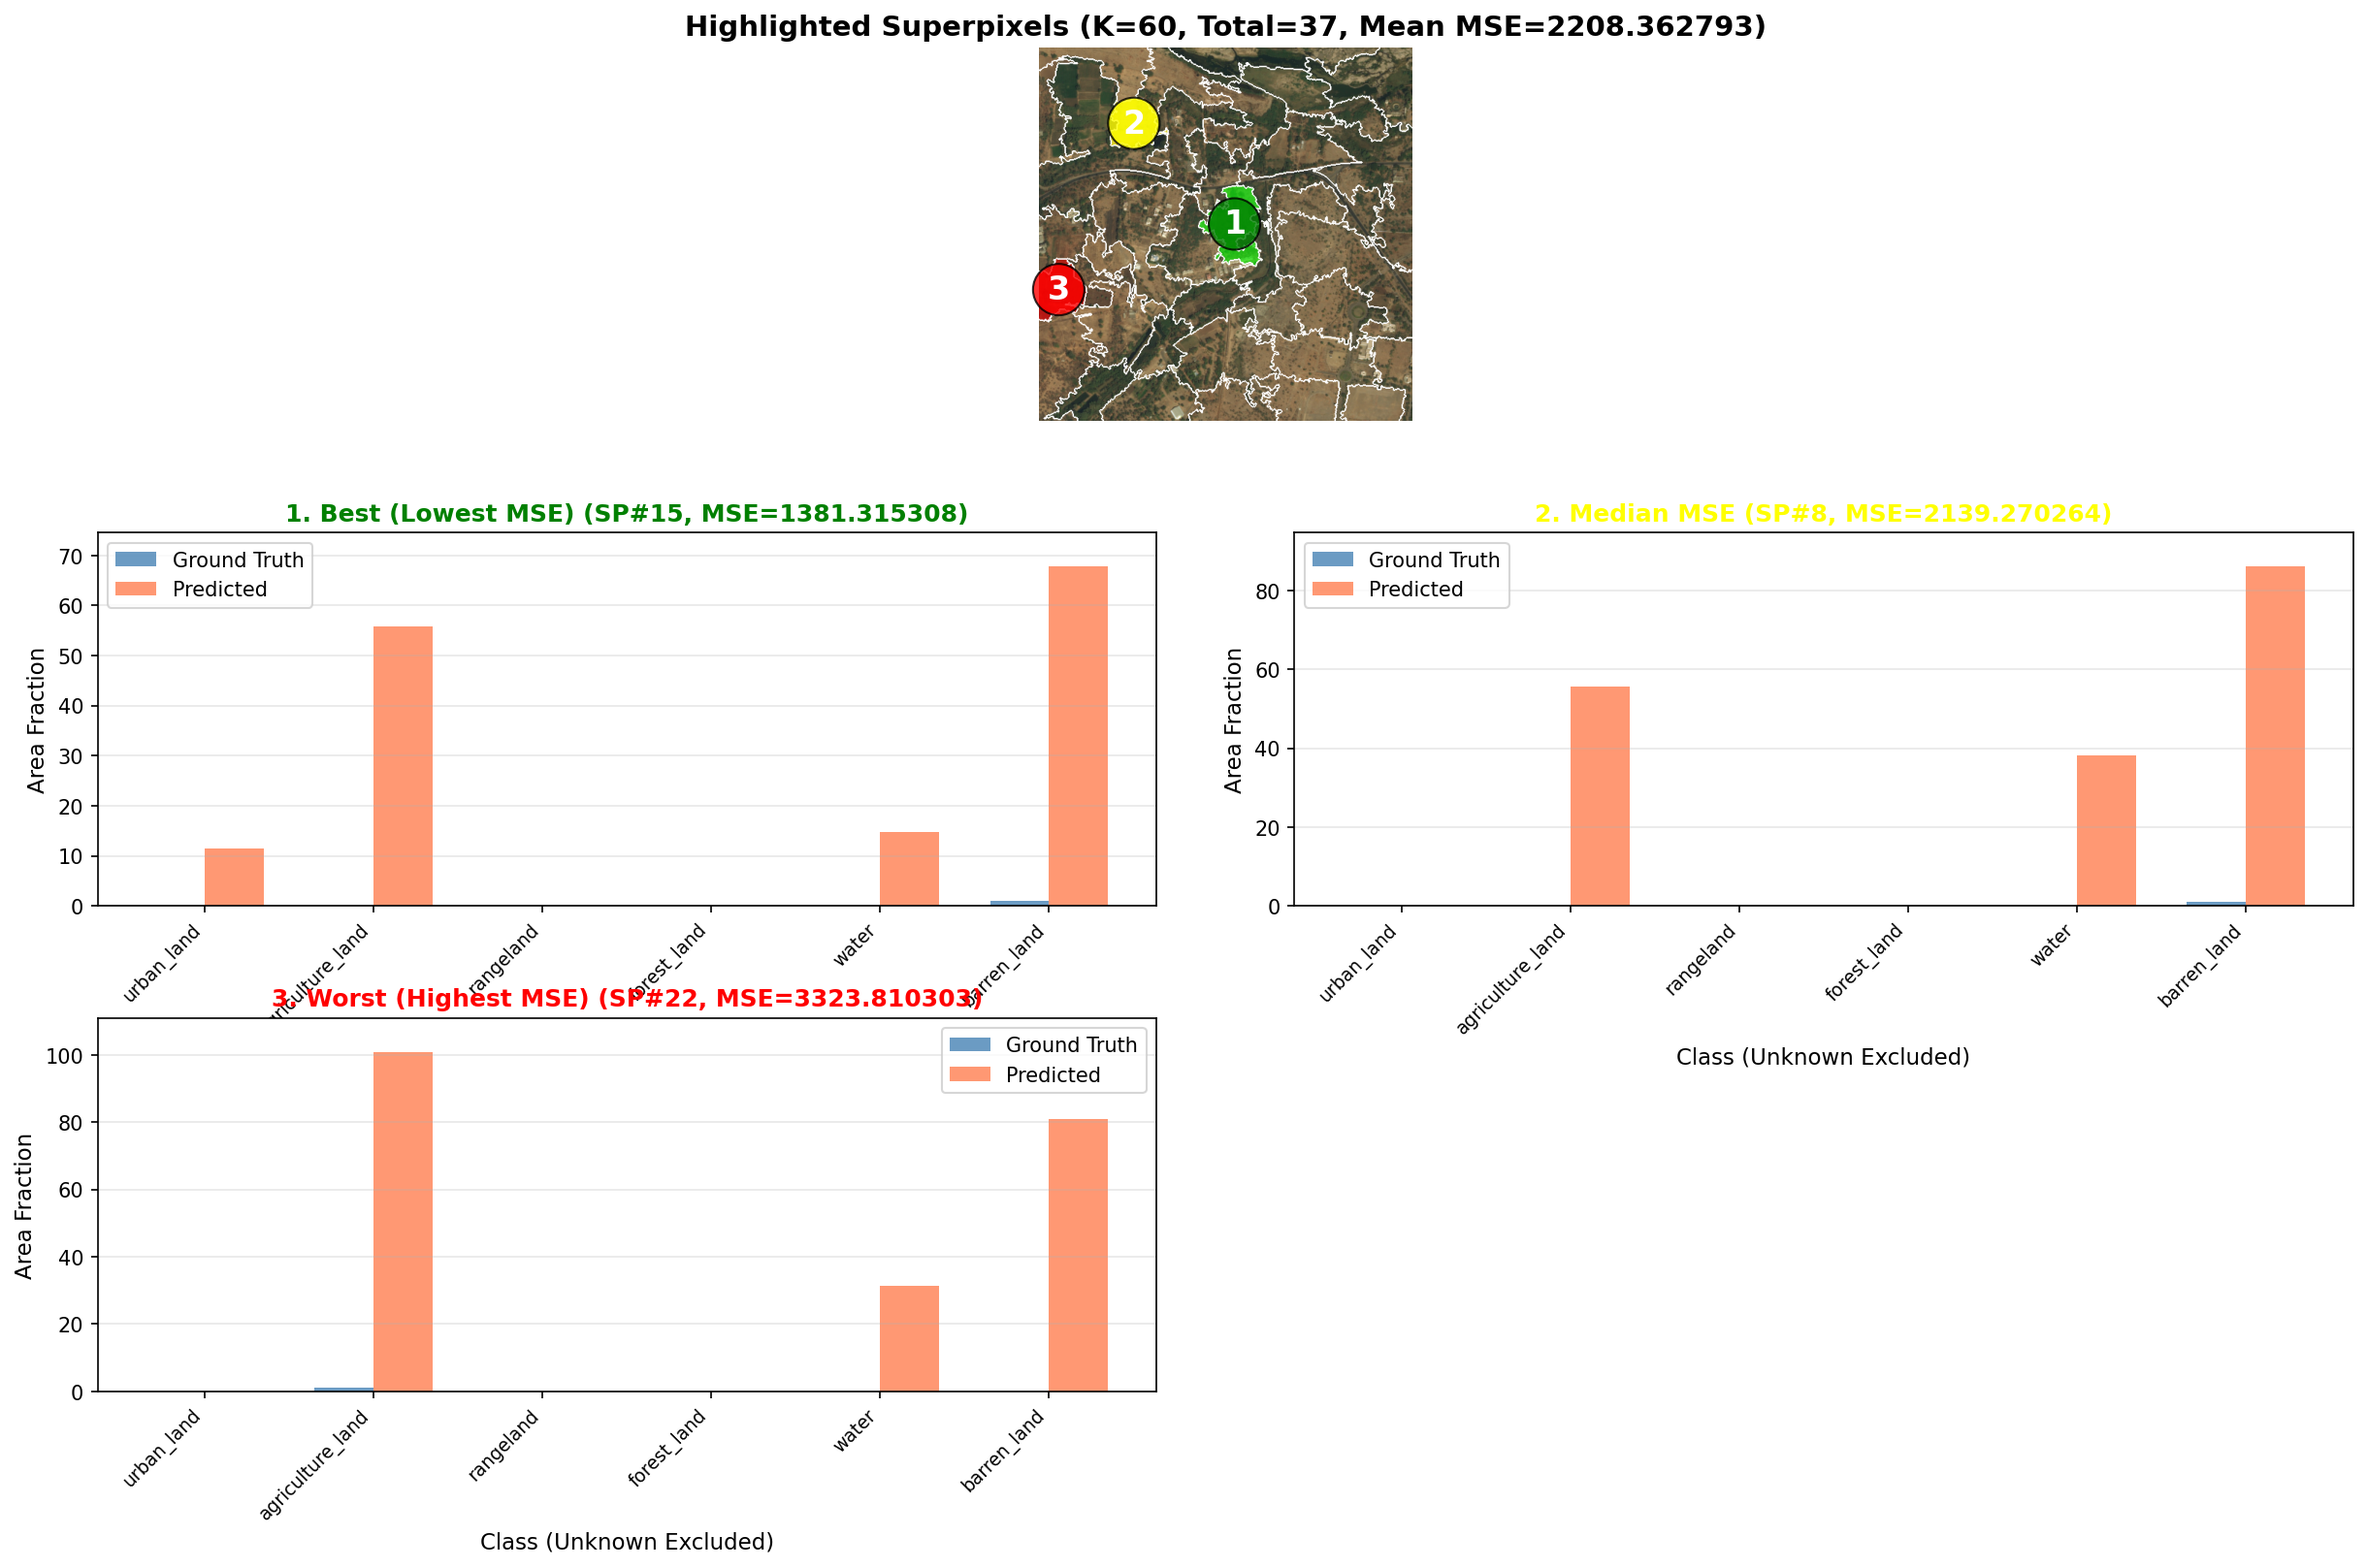
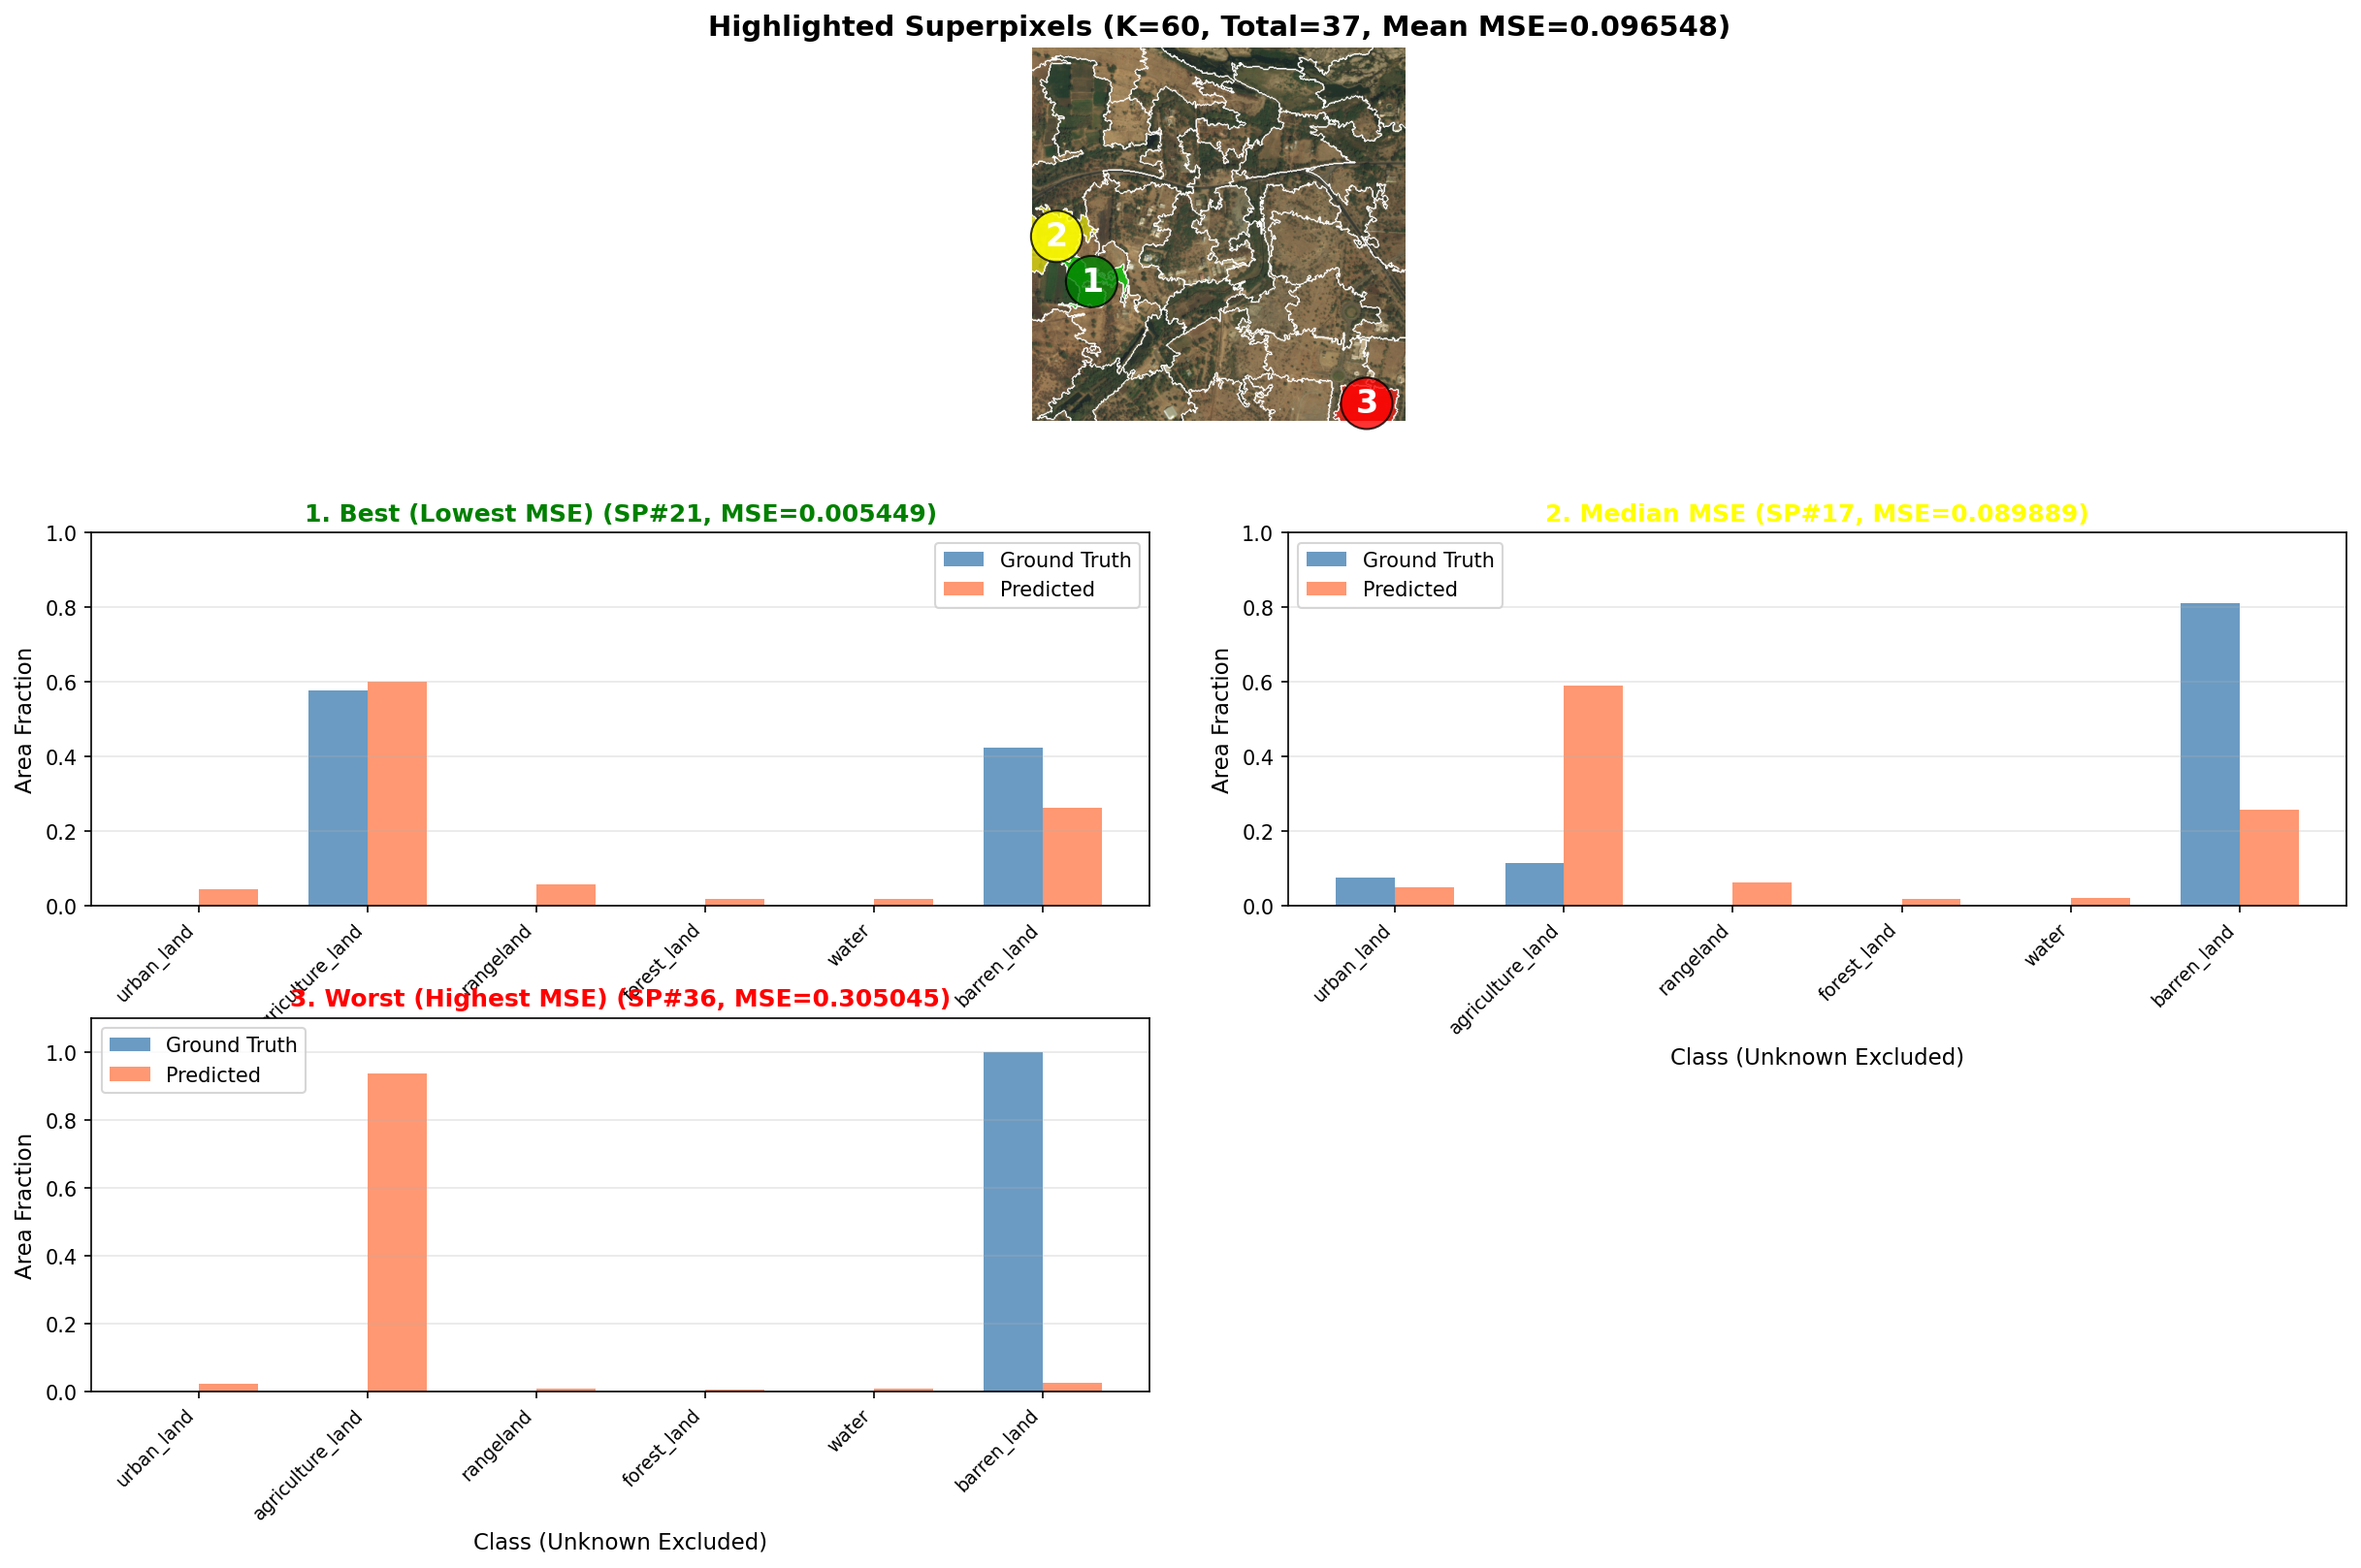
Add small test

diff --git a/training/train_geometric.py b/training/train_geometric.py
@@ -34,6 +34,39 @@ def geometric_training_entrypoint(model: torch.nn.Module, config: GeometricTrain
 
     print("Done.")
 
+def test_model(model: torch.nn.Module, config: GeometricTrainConfig):
+    torch.manual_seed(config.random_seed)
+    np.random.seed(config.random_seed)
+    device = get_device()
+
+    # use same split logic; val acts as test
+    (_, _), (test_ds, test_loader), test_ids = create_split_pyg_loaders(
+        config, device, train_ratio=0.8
+    )
+
+    ckpt_path = const.ARTIFACTS_DIR / f"{config.model_name}_best_weights.pt"
+    if not ckpt_path.exists():
+        raise FileNotFoundError(f"Checkpoint not found: {ckpt_path}")
+
+    model = model.to(device)
+    model.load_state_dict(torch.load(ckpt_path, map_location=device))
+    model.eval()
+
+    test_loss, test_mse = evaluate(model, test_loader, device)
+
+    print(f"Model: {config.model_name}")
+    print(f"Test Loss: {test_loss:.4f} | Test MSE: {test_mse:.6f}")
+
+    results = {
+        "model": config.model_name,
+        "test_loss": test_loss,
+        "test_mse": test_mse,
+    }
+    out_path = const.ARTIFACTS_DIR / f"{config.model_name}_test_results.csv"
+    pd.DataFrame([results]).to_csv(out_path, index=False)
+    print(f"Saved results to {out_path}")
+    return results
+
 def kl_loss_area(pred_logits: torch.Tensor, target_probs: torch.Tensor) -> torch.Tensor:
     """
     KL(target || softmax(logits)) averaged over VALID nodes only.
@@ -87,7 +120,7 @@ def evaluate(model, loader, device):
             out = model(x, data.edge_index)
             # loss = F.kl_div(F.log_softmax(out, dim=1), data.y, reduction="batchmean")
             loss = kl_loss_area(out, data.y)
-            mse = torch.mean((F.softmax(out[0]) - data.y) ** 2).item()
+            mse = torch.mean((F.softmax(out, dim=1) - data.y) ** 2).item()
             total_loss += float(loss.item())
             total_mse += mse
             n_graphs += 1

diff --git a/test_models.py b/test_models.py
@@ -1,0 +1,24 @@
+from config.geometric_train_config import GeometricTrainConfig
+from models.gcn import GCN2
+from models.gat_geometric import MultiheadGAT
+from training.train_geometric import test_model
+import pandas as pd
+import const
+
+if __name__ == "__main__":
+    configs = []
+
+    # cfg_gcn = GeometricTrainConfig()
+    # cfg_gcn.model_name = "gcn2_k60"
+    # gcn_model = GCN2(in_dim=1024, hidden_dim=cfg_gcn.hidden_dim, out_dim=6)
+    # configs.append((gcn_model, cfg_gcn))
+
+    cfg_gat = GeometricTrainConfig()
+    cfg_gat.model_name = "gat_k60"
+    gat_model = MultiheadGAT(in_dim=1024, hidden_dim=512, out_dim=6)
+    configs.append((gat_model, cfg_gat))
+
+    results = [test_model(model, cfg) for model, cfg in configs]
+    summary_path = const.ARTIFACTS_DIR / "test_summary.csv"
+    pd.DataFrame(results).to_csv(summary_path, index=False)
+    print(f"\nSaved all results to {summary_path}")

diff --git a/test_one_superpixel.py b/test_one_superpixel.py
@@ -50,7 +50,8 @@ def get_superpixel_predictions(model, data, device):
     with torch.no_grad():
         data = data.to(device)
         preds = model(data.x, data.edge_index)  # [N, num_classes] area fractions
-    return preds.cpu().numpy()
+        pred_probs = torch.softmax(preds, dim=-1)  # convert logits → probabilities
+    return pred_probs.cpu().numpy()
 
 
 def calculate_mse_per_superpixel(pred, gt):
@@ -76,7 +77,7 @@ def highlight_superpixel(sp, sp_id, color=(255, 0, 0), alpha=0.5):
 def main():
     # Config
     device = torch.device("mps" if torch.mps.is_available() else "cpu")
-    ckpt_path = "D:/Work/graph-machine-learning/artifacts/gat_k60_last.ckpt"
+    ckpt_path = "D:/Work/graph-machine-learning/artifacts/gat_k60_best.ckpt"
     k_value = 60
     random_seed = 42
     

diff --git a/config/geometric_train_config.py b/config/geometric_train_config.py
@@ -2,7 +2,7 @@ class GeometricTrainConfig:
     random_seed: int = 42
     epochs: int = 50
     model_name: str
-    hidden_dim: int = 512
+    hidden_dim: int = 128
     img_size: int = (512, 512)
     lr: float = 2e-4
     weight_decay: float = 1e-4
